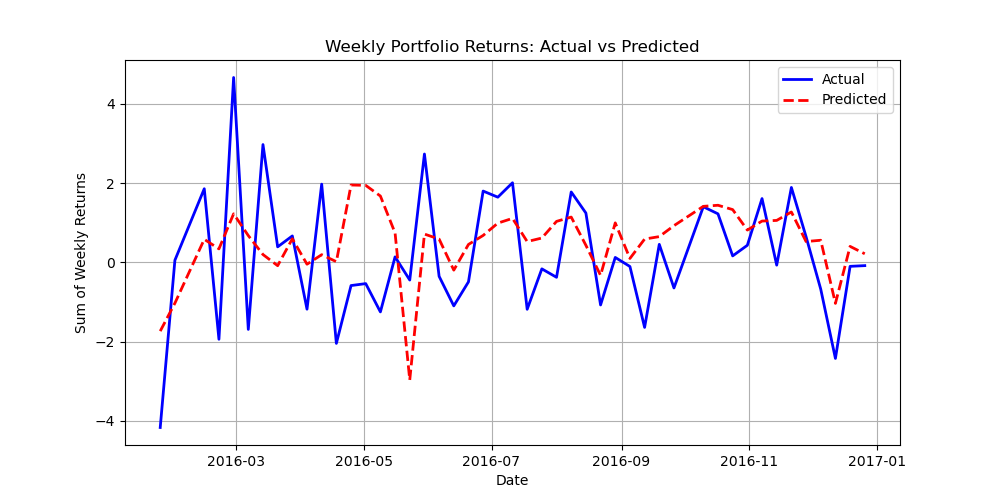
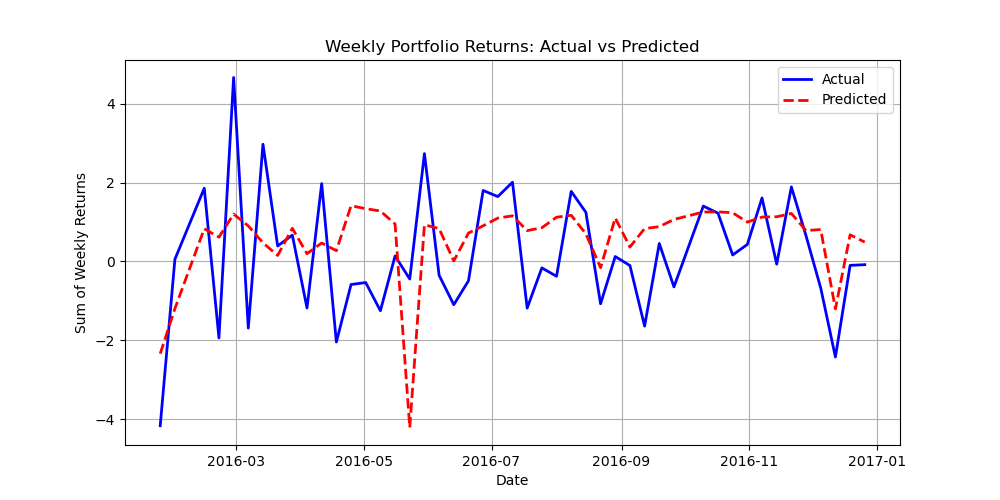
Update Study1 @0503

diff --git a/Study2_LSTM_Plus.py b/Study2_LSTM_Plus.py
@@ -1,70 +1,100 @@
 import pandas as pd
 import numpy as np
 import matplotlib.pyplot as plt
-from sklearn.model_selection import train_test_split, KFold
+from sklearn.model_selection import KFold
 from sklearn.preprocessing import StandardScaler
 from sklearn.impute import KNNImputer
 from sklearn.metrics import mean_squared_error, r2_score
 import tensorflow as tf
-from tensorflow.keras.regularizers import l2
-from tensorflow.keras.callbacks import ReduceLROnPlateau, EarlyStopping
-from tensorflow.keras.layers import Input, Dense, LSTM, Dropout, Bidirectional, Conv1D, Flatten
+from tensorflow.keras.layers import Input, Dense, LSTM, Dropout, Bidirectional, Flatten
+import optuna
 
-# Load and prepare data
+# 加载和准备数据
 data_path = 'study1_final_all.csv'
 data = pd.read_csv(data_path)
 data['Date'] = pd.to_datetime(data['Date']).dt.to_period('W').dt.to_timestamp()
 
-# Advanced feature engineering
+# 高级特征工程
 features = data[['Date', 'GB_emotion']].copy()
 imputer = KNNImputer(n_neighbors=5)
 features['GB_emotion'] = imputer.fit_transform(features[['GB_emotion']])
 target = data[['Date', 'Wretnd']].copy()
 target['Wretnd'] = imputer.fit_transform(target[['Wretnd']])
 
-# Group by date
+# 通过日期分组
 target = target.groupby('Date').sum()
 features = features.groupby('Date').mean()
 
-# Standardize features
+# 标准化特征
 scaler = StandardScaler()
 features_scaled = scaler.fit_transform(features)
 features_scaled = np.reshape(features_scaled, (features_scaled.shape[0], 1, features_scaled.shape[1]))
 
-# K-fold cross-validation setup
+# K折交叉验证设置
 kf = KFold(n_splits=5, shuffle=True, random_state=42)
 results = []
 
-for train_index, test_index in kf.split(features_scaled):
-    X_train, X_test = features_scaled[train_index], features_scaled[test_index]
-    y_train, y_test = target.iloc[train_index], target.iloc[test_index]
+# 记录最后一次迭代的 y_test 和 y_pred
+last_y_test = None
+last_y_pred = None
 
-    # Build LSTM model with CNN layers
-    model = tf.keras.models.Sequential([
-        Input(shape=(X_train.shape[1], X_train.shape[2])),
-        Conv1D(filters=32, kernel_size=3, activation='relu', padding='same'),
-        Bidirectional(LSTM(50, return_sequences=True, kernel_regularizer=l2(0.01))),
-        Dropout(0.3),
-        Flatten(),
-        Dense(1)
-    ])
 
-    # Compile model
-    optimizer = tf.keras.optimizers.SGD(learning_rate=0.01, momentum=0.9)
-    model.compile(optimizer=optimizer, loss='mean_squared_error')
-    reduce_lr = ReduceLROnPlateau(monitor='val_loss', factor=0.2, patience=5, min_lr=0.0001)
-    early_stopping = EarlyStopping(monitor='val_loss', patience=10, restore_best_weights=True)
+def objective(trial):
+    # 定义模型参数搜索空间
+    lstm_units = trial.suggest_categorical('lstm_units', [20, 50, 100])
+    dropout_rate = trial.suggest_uniform('dropout_rate', 0.1, 0.5)
+    learning_rate = trial.suggest_loguniform('learning_rate', 1e-5, 1e-1)
 
-    # Train model
-    model.fit(X_train, y_train, validation_split=0.2, epochs=200, batch_size=32, verbose=0, callbacks=[reduce_lr, early_stopping])
+    local_results = []
+    for train_index, test_index in kf.split(features_scaled):
+        X_train, X_test = features_scaled[train_index], features_scaled[test_index]
+        y_train, y_test = target.iloc[train_index], target.iloc[test_index]
 
-    # Evaluate model
-    y_pred = model.predict(X_test)
-    mse = mean_squared_error(y_test, y_pred)
-    rmse = np.sqrt(mse)
-    r2 = r2_score(y_test, y_pred)
-    results.append((mse, rmse, r2))
+        # 构建模型
+        model = tf.keras.models.Sequential([
+            Input(shape=(X_train.shape[1], X_train.shape[2])),
+            Bidirectional(LSTM(lstm_units, return_sequences=True)),
+            Dropout(dropout_rate),
+            Flatten(),
+            Dense(1)
+        ])
+        optimizer = tf.keras.optimizers.Adam(learning_rate=learning_rate)
+        model.compile(loss='mean_squared_error', optimizer=optimizer)
 
-# Calculate average of the results
-average_results = np.mean(results, axis=0)
-print(f"Average MSE: {average_results[0]}, Average RMSE: {average_results[1]}, Average R^2: {average_results[2]}")
+        # 训练模型
+        model.fit(X_train, y_train, validation_split=0.2, epochs=100, batch_size=32, verbose=0)
+
+        # 评估模型
+        mse = model.evaluate(X_test, y_test, verbose=0)
+        y_pred = model.predict(X_test)
+        rmse = np.sqrt(mse)
+        r2 = r2_score(y_test, y_pred)
+
+        local_results.append((mse, rmse, r2))
+        last_y_test = y_test
+        last_y_pred = y_pred
+
+    average_results = np.mean(local_results, axis=0)
+    results.append(average_results)
+    return average_results[0]  # Minimize MSE
+
+
+study = optuna.create_study(direction='minimize')
+study.optimize(objective, n_trials=50)
+
+print('Best trial:', study.best_trial.params)
+
+# 计算整体平均结果
+average_mse, average_rmse, average_r2 = np.mean(results, axis=0)
+print(f"Average MSE: {average_mse}, Average RMSE: {average_rmse}, Average R^2: {average_r2}")
+
+# 绘制预测与实际结果图
+plt.figure(figsize=(10, 5))
+plt.plot(last_y_test.index, last_y_test, label='Actual', color='blue', linewidth=2)
+plt.plot(last_y_test.index, last_y_pred, label='Predicted', linestyle='--', color='red', linewidth=2)
+plt.title('Weekly Portfolio Returns: Actual vs Predicted')
+plt.xlabel('Date')
+plt.ylabel('Sum of Weekly Returns')
+plt.legend()
+plt.grid(True)
+plt.show()
